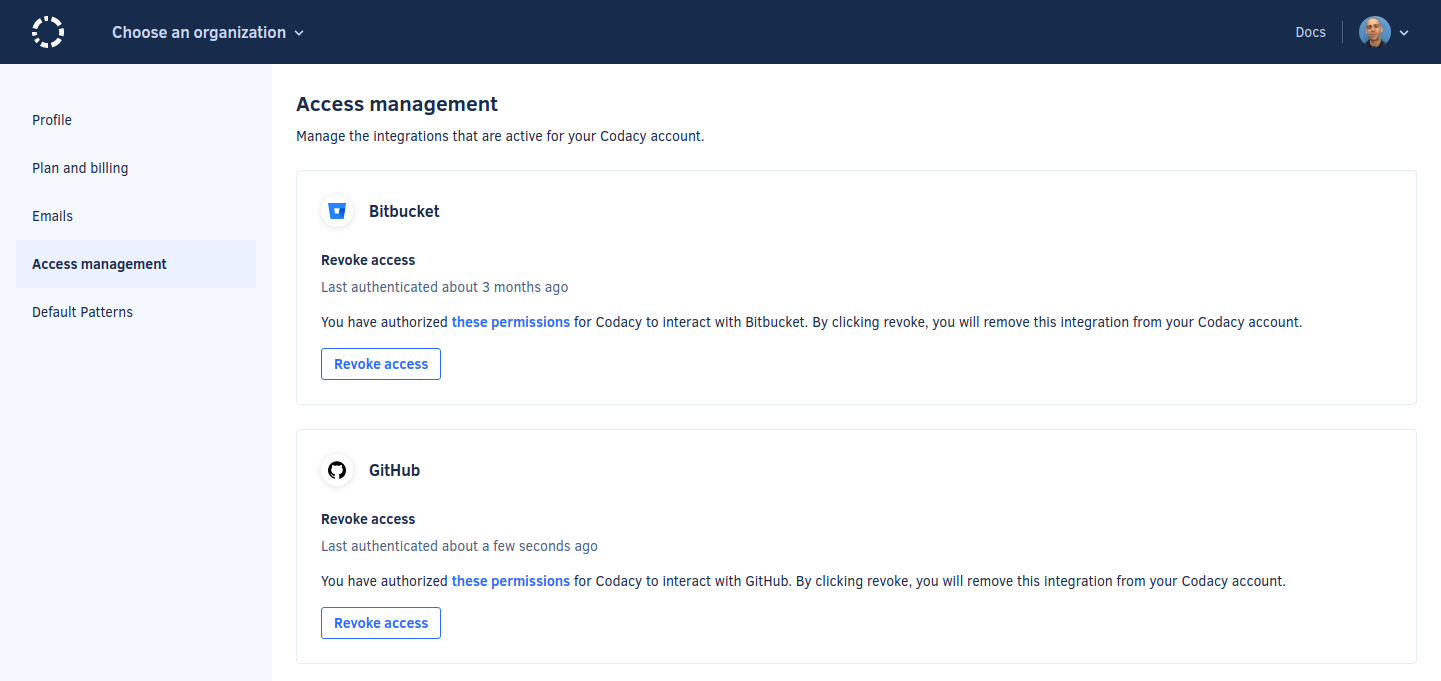
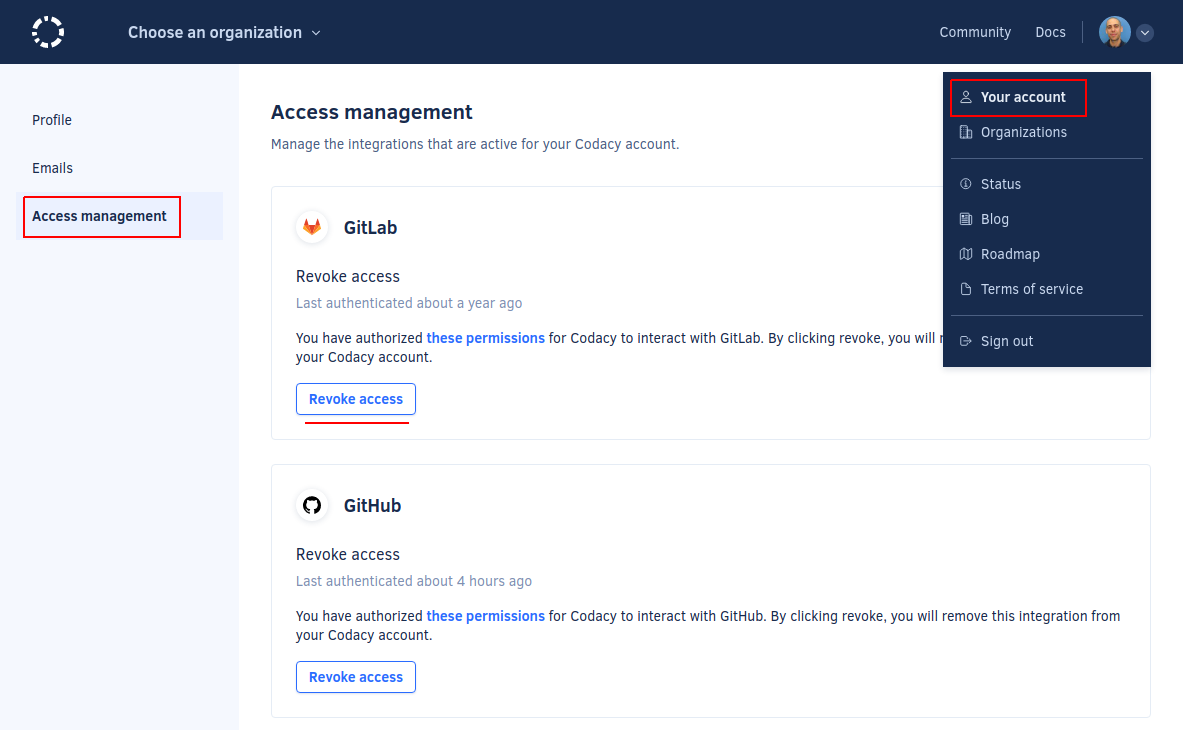
clean: Improve troubleshooting for missing organization CY-5678 (#1051)
* clean: Edit "Why can't I see my organization?"

Includes link to section with instructions on how to revoke the
OAuth integration with the Git provider and accompanying screenshot.

* clean: Update screenshots with extra callouts

* clean: Recommend refreshing list of organizations after each step

* clean: improve wording

diff --git a/docs/faq/general/why-cant-i-see-my-organization.md b/docs/faq/general/why-cant-i-see-my-organization.md
@@ -4,16 +4,22 @@ description: Try these steps if you don't see your organization when adding your
 
 # Why can't I see my organization?
 
-If you don't see your organization when [adding your organization on Codacy](../../organizations/what-are-synced-organizations.md#adding-an-organization), try the following steps:
+If you can't [add your organization to Codacy](../../organizations/what-are-synced-organizations.md#adding-an-organization) because it doesn't appear on the Organizations page, please try re-adding your Git provider or refreshing the list of organizations by clicking **Add provider** or **Refresh this list** on the Organizations page:
 
-1.  Make sure you have access to the organization with the account you're logged in.
+![Refreshing the list of organizations](images/organization-refresh-list.png)
+
+If you still can't see your organization on Codacy, follow the steps below and **refresh the list of organizations after each step** to check if the issue is solved:
+
+1.  Re-add your Git provider or refresh the list of organizations on Codacy by clicking **Add provider** or **Refresh this list** on the Organizations page:
+
+    ![Refreshing the list of organizations](images/organization-refresh-list.png)
+
+1.  Make sure that you have access to the organization on the Git provider using the account that you used to log in on Codacy.
 
 1.  **If you're using GitHub** [install and authorize Codacy on your organization](https://github.com/apps/codacy-production/installations/new).
 
-1.  Refresh the list of organizations on Codacy by clicking **refresh this list** on the Organizations page:
+1.  [Revoke Codacy's OAuth integration](../../getting-started/which-permissions-does-codacy-need-from-my-account.md#revoking-access-to-integrations) with your Git provider and log in again to Codacy.
 
-    ![Refresh the list of organizations](images/organization-refresh-list.png)
-
-1.  Revoke Codacy's OAuth application on the Git provider website and log in again to Codacy.
+    ![Revoking Codacy's OAuth integration](../../getting-started/images/revoke-integration.png)
 
 If these steps don't solve the issue, please contact us at <mailto:support@codacy.com>.
